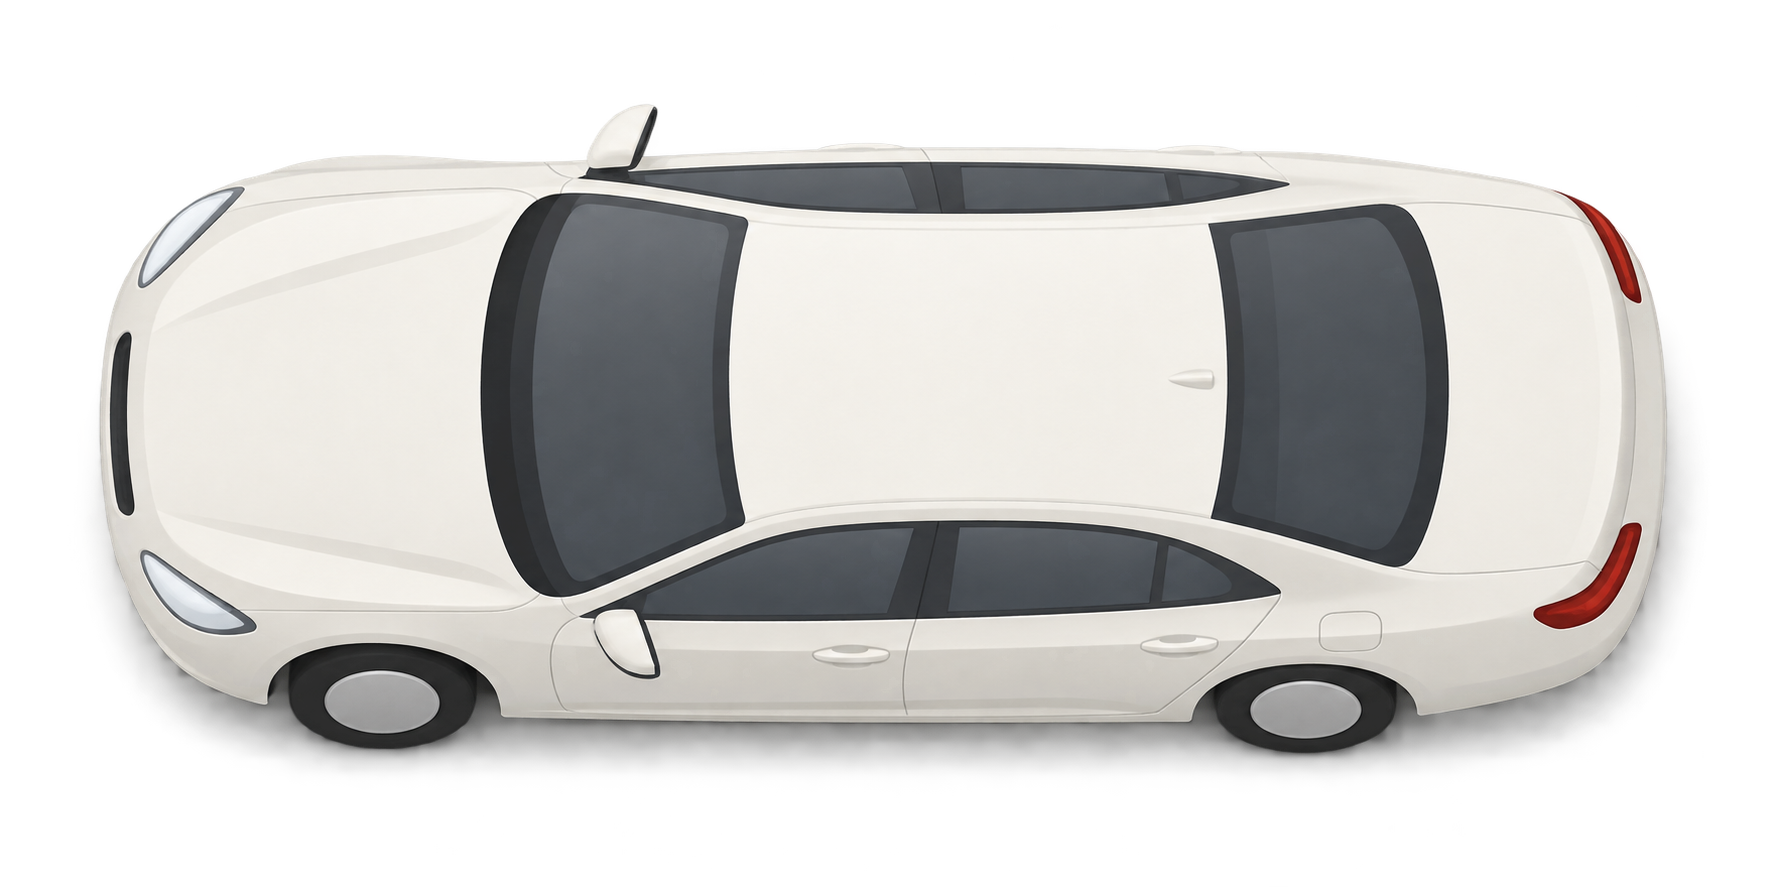
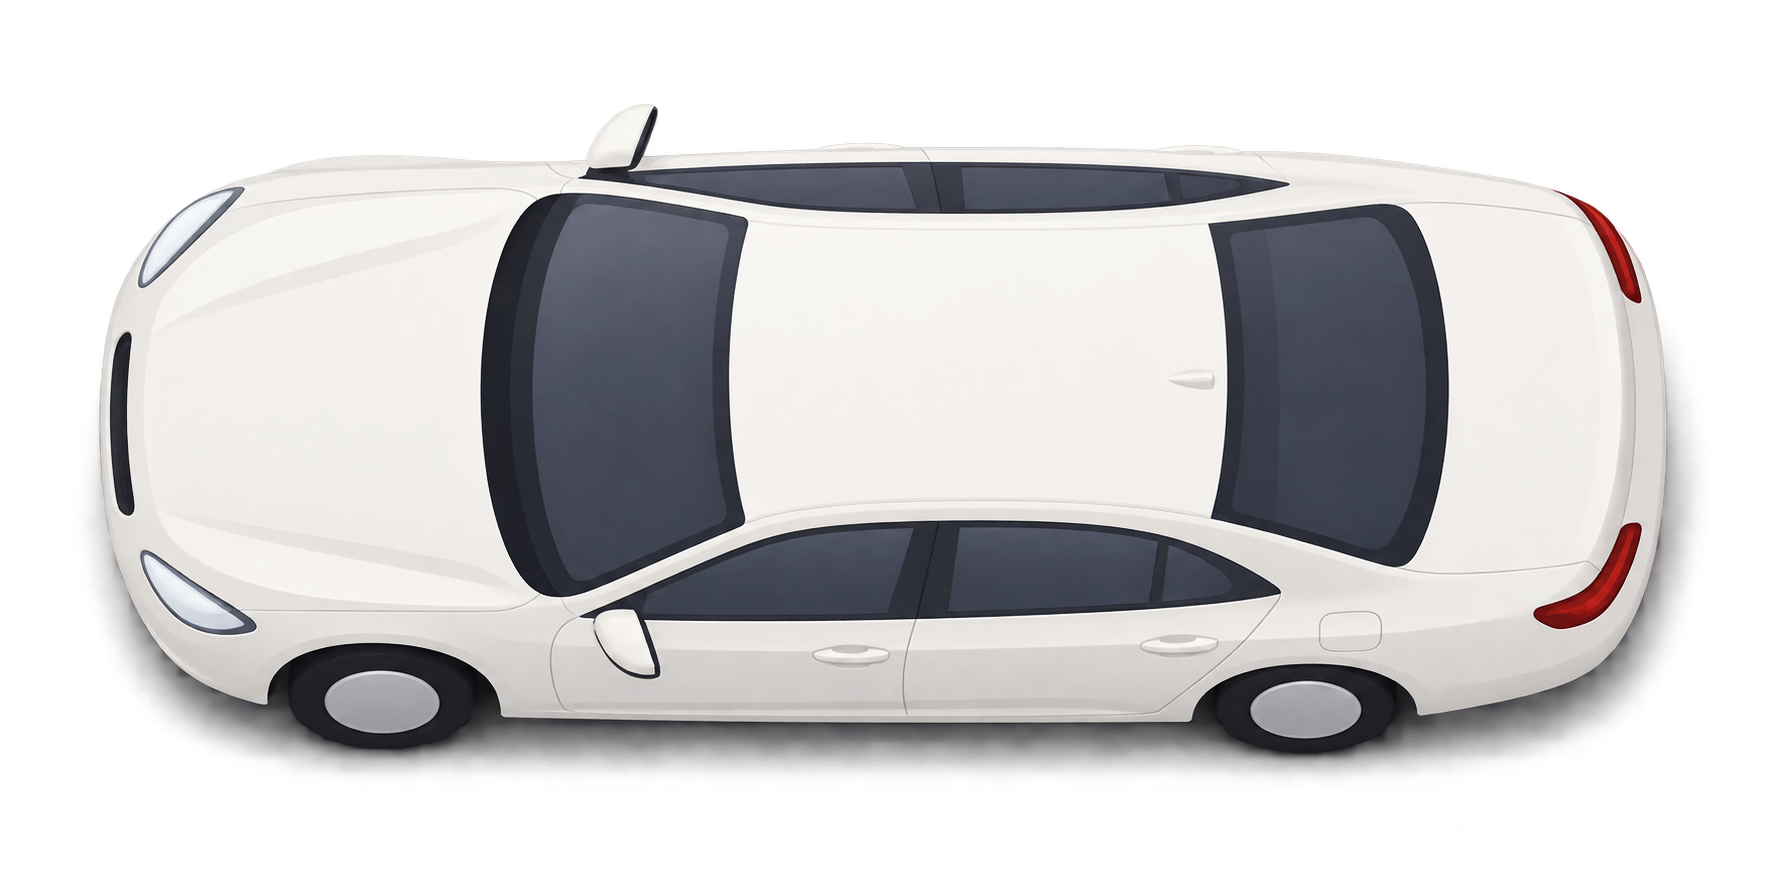
feat(vehicles): refresh vehicle imagery and map markers

Changed region(s): [[0.062, 0.487, 0.9611, 0.8828]]

diff --git a/frontend/src/constants/vehicles.js b/frontend/src/constants/vehicles.js
@@ -1,8 +1,8 @@
 import { websiteCopy as dc } from "../i18nCopy";
-import HatchBackImage from '../assets/angled-view-hatchback.webp'
-import SedanImage from '../assets/angled-view-sedan.webp'
-import SUVImage from '../assets/angled-view-SUV.webp'
-import PremiumSUVImage from '../assets/angled-view-Premium-SUV.webp'
+import HatchBackImage from '../assets/vehicles-v2/hatchback-panel.webp'
+import SedanImage from '../assets/vehicles-v2/sedan-panel.webp'
+import SUVImage from '../assets/vehicles-v2/suv-panel.webp'
+import PremiumSUVImage from '../assets/vehicles-v2/suv-premium-panel.webp'
 // Mirrors backend/constants/vehicles.js — the keys are what crosses the wire, so
 // the two files must agree. Everything here is display: the seat counts and the
 // prices themselves are the server's answer, never re-derived on the client.

diff --git a/frontend/src/constants/vehicleImages.js b/frontend/src/constants/vehicleImages.js
@@ -1,7 +1,7 @@
-import hatchback from "../assets/angled-view-hatchback.webp";
-import sedan from "../assets/angled-view-sedan.webp";
-import suv from "../assets/angled-view-SUV.webp";
-import premiumSuv from "../assets/angled-view-Premium-SUV.webp";
+import hatchback from "../assets/vehicles-v2/hatchback-panel.webp";
+import sedan from "../assets/vehicles-v2/sedan-panel.webp";
+import suv from "../assets/vehicles-v2/suv-panel.webp";
+import premiumSuv from "../assets/vehicles-v2/suv-premium-panel.webp";
 
 const ANGLED_VEHICLE_IMAGES = {
     hatchback,
